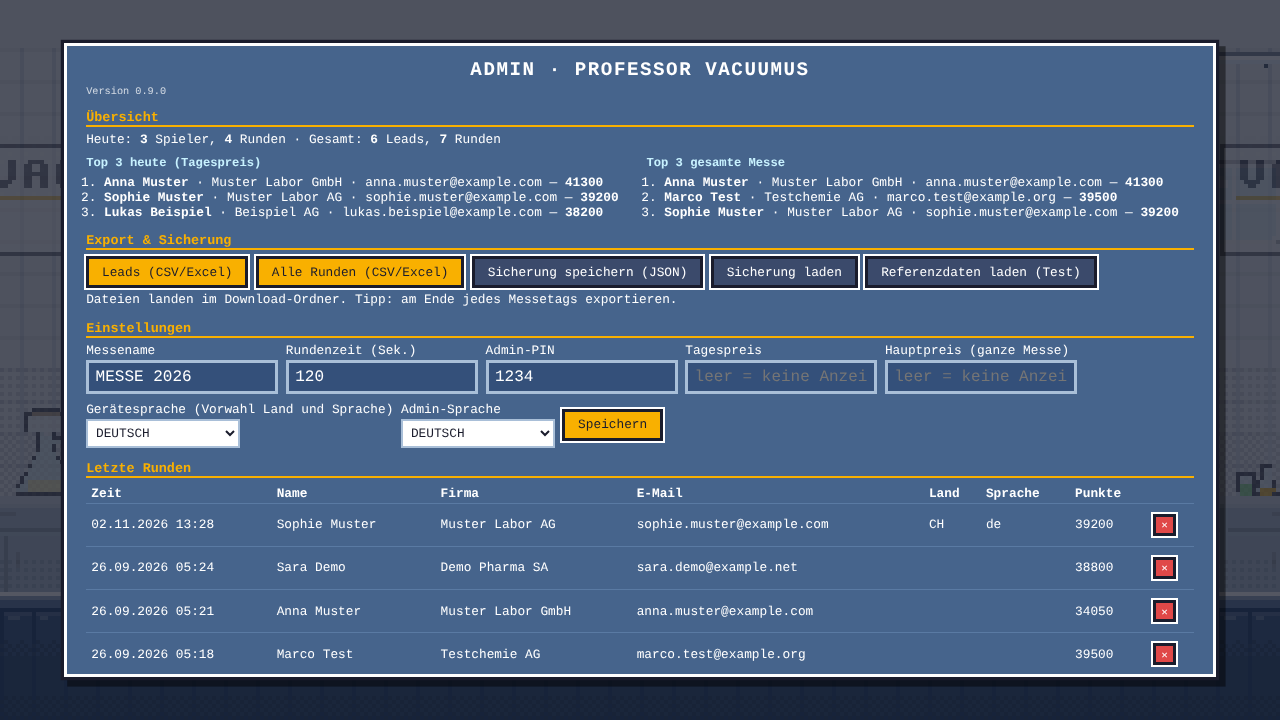
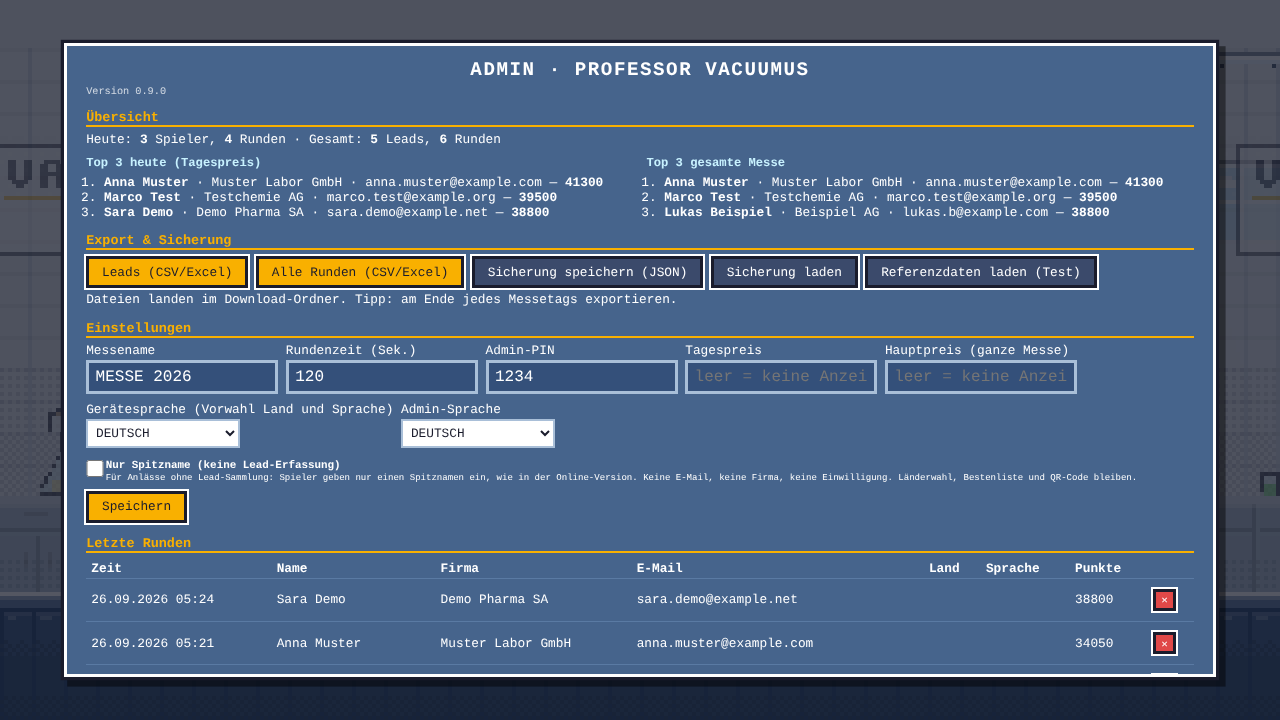
Admin-Schalter "Nur Spitzname": Messe ohne Lead-Erfassung
- CONFIG.nameOnly (Standard aus), Checkbox im Admin, wird gespeichert
- Anmeldung wie online (nur Spitzname), Überschrift WILLKOMMEN!/WELCOME!/BIENVENUE!
- Gelber Warnbalken im Admin, solange aktiv; Spitznamen separat gezählt
- Leads-Export ohne Spitznamen, Runden-Export mit Spalte Art (Lead/Spitzname)
- Texte DE/EN/FR in i18n.js und TEXTE.md (T191 bis T194)
- Doku DE/EN, Screenshots 15-admin neu, 18-admin-nur-spitzname neu
- sw.js VERSION v19

Claude-Session: https://claude.ai/code/session_01KFi8zYB7Vqd54yDzyfkvtV

diff --git a/js/ui.js b/js/ui.js
@@ -26,7 +26,7 @@ class RegisterScene {
   constructor(country) { this.country = country || ''; this.allowAdmin = false; this.t = 0; this.idle = 0; this.demo = new DemoStrip(); }
 
   enter() {
-    if (CONFIG.mode === 'online') { this.enterOnline(); return; }
+    if (nickRegistration()) { this.enterOnline(); return; }
     const cfg = CONFIG.registration;
     const fields = cfg.fields.map(f =>
       '<label class="field"><span>' + escapeHtml(L('reg.' + f.key)) + (f.required ? ' *' : '') + '</span>' +
@@ -59,14 +59,14 @@ class RegisterScene {
     if (!Input.touch) setTimeout(() => { const i = form.querySelector('input'); if (i) i.focus(); }, 30);
   }
 
-  // Online-Demo: nur ein Spitzname, keine Kontaktdaten
+  // Nur Spitzname, keine Kontaktdaten: Online-Demo, oder Messe mit Schalter "Nur Spitzname" (CONFIG.nameOnly)
   enterOnline() {
     let last = '';
     try { last = window.localStorage.getItem('vakuumprof_nick') || ''; } catch (e) { /* egal */ }
     Overlay.show(
       '<form class="panel reg online" novalidate lang="' + I18N.lang + '">' +
       '<div class="logo"><img src="assets/vacuubrand-logo.png" alt="VACUUBRAND"></div>' +
-      '<h1>' + escapeHtml(L('on.title')) + '</h1>' +
+      '<h1>' + escapeHtml(L(CONFIG.mode === 'online' ? 'on.title' : 'nick.title')) + '</h1>' +
       '<p class="hint">' + escapeHtml(L('on.hint')) + '</p>' +
       '<label class="field"><span>' + escapeHtml(L('on.nick')) + '</span><input name="nick" type="text" maxlength="12" autocomplete="off" spellcheck="false" placeholder="' + escapeHtml(L('on.guest')) + '" value="' + escapeHtml(last) + '"></label>' +
       '<div class="buttons"><button type="button" class="btn ghost" data-act="cancel">' + escapeHtml(L('on.back')) + '</button>' +
@@ -79,7 +79,10 @@ class RegisterScene {
       e.preventDefault();
       const nick = (form.elements.nick.value.trim() || L('on.guest')).slice(0, 12);
       try { window.localStorage.setItem('vakuumprof_nick', nick); } catch (err) { /* egal */ }
-      const lead = Store.upsertLead({ firstName: nick, lastName: '', company: '', email: 'online:' + nick.toLowerCase(), consent: false, newsletter: false, isOnline: true, country: this.country, lang: I18N.lang });
+      // Gleicher Spitzname = gleicher Spieler. Online wie bisher "online:…", an der Messe "nick:…" (nie eine echte E-Mail)
+      const online = CONFIG.mode === 'online';
+      const lead = Store.upsertLead(Object.assign({ firstName: nick, lastName: '', company: '', email: (online ? 'online:' : 'nick:') + nick.toLowerCase(),
+        consent: false, newsletter: false, country: this.country, lang: I18N.lang }, online ? { isOnline: true } : { nickOnly: true }));
       Sound.sfx('select');
       Game.go(new PlayScene(lead));
     });
@@ -184,6 +187,7 @@ class AdminScene {
 
   personRow(e) {
     const l = e.lead || {};
+    if (isNickLead(l)) return '<li><b>' + escapeHtml(l.firstName) + '</b> · <i>' + LA('adm.nickTag') + '</i> — <b>' + e.score + '</b></li>';
     return '<li><b>' + escapeHtml(l.firstName) + ' ' + escapeHtml(l.lastName) + '</b> · ' + escapeHtml(l.company) +
       ' · ' + escapeHtml(l.email) + ' — <b>' + e.score + '</b></li>';
   }
@@ -201,8 +205,10 @@ class AdminScene {
     const recent = Store.rounds().slice().sort((a, b) => b.ts - a.ts).slice(0, 40);
     const rows = recent.map(r => {
       const l = leads[r.leadId] || {};
+      const nick = isNickLead(l);   // Spitzname-Runde: keine Firma, keine E-Mail
       return '<tr><td>' + formatDateTime(r.ts) + '</td><td>' + escapeHtml(l.firstName) + ' ' + escapeHtml(l.lastName) +
-        '</td><td>' + escapeHtml(l.company) + '</td><td>' + escapeHtml(l.email) + '</td><td>' + escapeHtml(r.country || l.country || '') +
+        (nick ? ' <i>(' + LA('adm.nickTag') + ')</i>' : '') +
+        '</td><td>' + (nick ? '' : escapeHtml(l.company)) + '</td><td>' + (nick ? '' : escapeHtml(l.email)) + '</td><td>' + escapeHtml(r.country || l.country || '') +
         '</td><td>' + escapeHtml(r.lang || l.lang || '') + '</td><td>' + r.score +
         '</td><td><button class="btn small danger" data-del="' + escapeHtml(r.id) + '">✕</button></td></tr>';
     }).join('');
@@ -210,8 +216,10 @@ class AdminScene {
       '<div class="panel admin" lang="' + I18N.adminLang + '"><h1>' + LA('adm.title') + '</h1>' +
       '<p class="version">' + LA('adm.version', escapeHtml(CONFIG.version || '')) + '</p>' +
       (Store.available ? '' : '<div class="warn">' + LA('adm.noStorage') + '</div>') +
+      (CONFIG.nameOnly ? '<div class="warn nick">' + LA('adm.nameOnlyActive') + '</div>' : '') +
       (note ? '<p class="ok">' + escapeHtml(note) + '</p>' : '') +
-      '<h2>' + LA('adm.overview') + '</h2><p>' + LA('adm.stats', st.playersToday, st.roundsToday, st.leads, st.rounds) + '</p>' +
+      '<h2>' + LA('adm.overview') + '</h2><p>' + LA('adm.stats', st.playersToday, st.roundsToday, st.leads, st.rounds) +
+        (st.nicks ? LA('adm.statsNick', st.nicks) : '') + '</p>' +
       '<div class="cols"><div><h3>' + LA('adm.top3day') + '</h3><ol>' + (today.map(e => this.personRow(e)).join('') || '<li>–</li>') + '</ol></div>' +
       '<div><h3>' + LA('adm.top3all') + '</h3><ol>' + (all.map(e => this.personRow(e)).join('') || '<li>–</li>') + '</ol></div></div>' +
       '<h2>' + LA('adm.export') + '</h2><div class="row">' +
@@ -233,6 +241,8 @@ class AdminScene {
       '<label>' + LA('adm.prizeMain') + '<input type="text" name="prizeMain" maxlength="17" placeholder="' + LA('adm.prizeEmpty') + '" value="' + escapeHtml(CONFIG.prizeMain || '') + '"></label>' +
       '<label>' + LA('adm.defaultLang') + this.langSelect('defaultLang', CONFIG.defaultLang, I18N.langs) + '</label>' +
       '<label>' + LA('adm.adminLang') + this.langSelect('adminLang', I18N.adminLang, ['de', 'en']) + '</label>' +
+      '<label class="check nameOnly"><input type="checkbox" name="nameOnly"' + (CONFIG.nameOnly ? ' checked' : '') + '><span><b>' + LA('adm.nameOnly') + '</b><br>' +
+        '<small>' + LA('adm.nameOnlyHelp') + '</small></span></label>' +
       '<button class="btn" type="submit">' + LA('adm.save') + '</button></form>' +
       '<h2>' + LA('adm.recent') + '</h2><table><tr><th>' + LA('adm.colTime') + '</th><th>' + LA('adm.colName') + '</th><th>' + LA('adm.colCompany') +
       '</th><th>' + LA('adm.colEmail') + '</th><th>' + LA('adm.colCountry') + '</th><th>' + LA('adm.colLang') + '</th><th>' + LA('adm.colScore') + '</th><th></th></tr>' +
@@ -262,7 +272,8 @@ class AdminScene {
         prizeDay: f.elements.prizeDay.value.trim().toUpperCase(),
         prizeMain: f.elements.prizeMain.value.trim().toUpperCase(),
         defaultLang: f.elements.defaultLang.value,
-        adminLang: f.elements.adminLang.value
+        adminLang: f.elements.adminLang.value,
+        nameOnly: f.elements.nameOnly.checked
       };
       Object.assign(CONFIG, s);
       I18N.adminLang = s.adminLang;

diff --git a/js/i18n.js b/js/i18n.js
@@ -163,6 +163,8 @@ const I18N = {
     'on.nick': 'Spitzname', 'on.guest': 'GAST',
     'on.back': 'ZURÜCK', 'on.go': 'LOS GEHT\'S!',
     'on.privacy': 'Deine Punkte werden nur auf diesem Gerät gespeichert. Es werden keine Daten übertragen.',
+    // Messe mit Schalter "Nur Spitzname": Überschrift statt ONLINE-DEMO (Rest wie on.…)
+    'nick.title': 'WILLKOMMEN!',
 
     // ---------------- Admin-Bereich (nur de und en) ----------------
     'adm.title': 'ADMIN · PROFESSOR VACUUMUS',
@@ -182,6 +184,10 @@ const I18N = {
     'adm.prizeDay': 'Tagespreis', 'adm.prizeMain': 'Hauptpreis (ganze Messe)', 'adm.prizeEmpty': 'leer = keine Anzeige',
     'adm.defaultLang': 'Gerätesprache (Vorwahl Land und Sprache)', 'adm.adminLang': 'Admin-Sprache',
     'adm.save': 'Speichern',
+    'adm.nameOnly': 'Nur Spitzname (keine Lead-Erfassung)',
+    'adm.nameOnlyHelp': 'Für Anlässe ohne Lead-Sammlung: Spieler geben nur einen Spitznamen ein, wie in der Online-Version. Keine E-Mail, keine Firma, keine Einwilligung. Länderwahl, Bestenliste und QR-Code bleiben.',
+    'adm.nameOnlyActive': 'NUR SPITZNAME IST AKTIV: Es werden keine Leads erfasst. An einer Lead-Messe unten bei Einstellungen ausschalten!',
+    'adm.nickTag': 'Spitzname', 'adm.statsNick': ' · <b>{0}</b> Spitznamen (keine Leads)',
     'adm.recent': 'Letzte Runden',
     'adm.colTime': 'Zeit', 'adm.colName': 'Name', 'adm.colCompany': 'Firma', 'adm.colEmail': 'E-Mail', 'adm.colScore': 'Punkte',
     'adm.colCountry': 'Land', 'adm.colLang': 'Sprache',
@@ -205,6 +211,7 @@ const I18N = {
     'adm.step.jump': 'SPRINGEN', 'adm.step.suck': 'SAUGEN', 'adm.step.sprint': 'SPRINTEN', 'adm.step.start': 'START / PAUSE',
     'adm.badBackup': 'Keine gültige Sicherungsdatei.',
     // CSV-Export (Spaltennamen)
+    'csv.type': 'Art', 'csv.typeLead': 'Lead', 'csv.typeNick': 'Spitzname', 'csv.nick': 'Spitzname',
     'csv.dateTime': 'Datum/Zeit', 'csv.day': 'Tag', 'csv.event': 'Messe', 'csv.firstName': 'Vorname', 'csv.lastName': 'Name',
     'csv.company': 'Firma', 'csv.email': 'E-Mail', 'csv.consent': 'Einwilligung', 'csv.newsletter': 'Newsletter',
     'csv.country': 'Land', 'csv.lang': 'Sprache',
@@ -348,6 +355,7 @@ const I18N = {
     'on.nick': 'Nickname', 'on.guest': 'GUEST',
     'on.back': 'BACK', 'on.go': 'LET\'S GO!',
     'on.privacy': 'Your points are stored only on this device. No data is transmitted.',
+    'nick.title': 'WELCOME!',
 
     'adm.title': 'ADMIN · PROFESSOR VACUUMUS',
     'adm.pin': 'PIN', 'adm.open': 'OPEN', 'adm.back': 'ESC · BACK', 'adm.wrongPin': 'Wrong PIN.',
@@ -366,6 +374,10 @@ const I18N = {
     'adm.prizeDay': 'Daily prize', 'adm.prizeMain': 'Main prize (whole show)', 'adm.prizeEmpty': 'empty = not shown',
     'adm.defaultLang': 'Device language (preselects country and language)', 'adm.adminLang': 'Admin language',
     'adm.save': 'Save',
+    'adm.nameOnly': 'Nickname only (no lead capture)',
+    'adm.nameOnlyHelp': 'For events without lead collection: players only enter a nickname, like in the online version. No email, no company, no consent. Country selection, high score list and QR code stay.',
+    'adm.nameOnlyActive': 'NICKNAME ONLY IS ACTIVE: no leads are captured. At a lead-collecting trade show, switch it off below under Settings!',
+    'adm.nickTag': 'nickname', 'adm.statsNick': ' · <b>{0}</b> nicknames (no leads)',
     'adm.recent': 'Latest rounds',
     'adm.colTime': 'Time', 'adm.colName': 'Name', 'adm.colCompany': 'Company', 'adm.colEmail': 'Email', 'adm.colScore': 'Score',
     'adm.colCountry': 'Country', 'adm.colLang': 'Language',
@@ -388,6 +400,7 @@ const I18N = {
     'adm.padButton': 'button {0}',
     'adm.step.jump': 'JUMP', 'adm.step.suck': 'SUCK', 'adm.step.sprint': 'SPRINT', 'adm.step.start': 'START / PAUSE',
     'adm.badBackup': 'Not a valid backup file.',
+    'csv.type': 'Type', 'csv.typeLead': 'Lead', 'csv.typeNick': 'Nickname', 'csv.nick': 'Nickname',
     'csv.dateTime': 'Date/time', 'csv.day': 'Day', 'csv.event': 'Show', 'csv.firstName': 'First name', 'csv.lastName': 'Last name',
     'csv.company': 'Company', 'csv.email': 'Email', 'csv.consent': 'Consent', 'csv.newsletter': 'Newsletter',
     'csv.country': 'Country', 'csv.lang': 'Language',
@@ -530,7 +543,8 @@ const I18N = {
     'on.hint': 'Pas d\'inscription nécessaire. Quel nom afficher dans le classement?',
     'on.nick': 'Pseudo', 'on.guest': 'INVITÉ',
     'on.back': 'RETOUR', 'on.go': 'C\'EST PARTI!',
-    'on.privacy': 'Tes points sont enregistrés uniquement sur cet appareil. Aucune donnée n\'est transmise.'
+    'on.privacy': 'Tes points sont enregistrés uniquement sur cet appareil. Aucune donnée n\'est transmise.',
+    'nick.title': 'BIENVENUE!'
   }
 };
 

diff --git a/js/storage.js b/js/storage.js
@@ -34,6 +34,8 @@ const Store = {
 
   uid(prefix) { return prefix + Date.now().toString(36) + Math.random().toString(36).slice(2, 7); },
   leads() { return this.load(this.K_LEADS, []); },
+  // Echte Leads (mit Anmeldung), ohne Spitzname-Spieler (online oder Messe mit "Nur Spitzname")
+  realLeads() { return this.leads().filter(l => !isNickLead(l)); },
   rounds() { return this.load(this.K_ROUNDS, []); },
   leadMap() {
     const m = {};
@@ -92,7 +94,8 @@ const Store = {
     const rounds = this.rounds();
     const today = rounds.filter(r => r.day === day);
     return {
-      leads: this.leads().length,
+      leads: this.realLeads().length,
+      nicks: this.leads().length - this.realLeads().length,
       rounds: rounds.length,
       roundsToday: today.length,
       playersToday: new Set(today.map(r => r.leadId)).size
@@ -136,10 +139,15 @@ const Store = {
   },
   exportRoundsCSV() {
     const leads = this.leadMap();
-    const rows = this.rounds().slice().sort((a, b) => a.ts - b.ts).map(r => Object.assign({}, r, { lead: leads[r.leadId] || {} }));
+    // Spitzname-Runden: Spalte "Art" = Spitzname, Name in eigener Spalte, Lead-Spalten bleiben leer
+    const rows = this.rounds().slice().sort((a, b) => a.ts - b.ts).map(r => {
+      const l = leads[r.leadId] || {};
+      return Object.assign({}, r, { nick: isNickLead(l) ? l.firstName : '', lead: isNickLead(l) ? {} : l });
+    });
     const yn = v => LA(v ? 'csv.yes' : 'csv.no');
     const text = this.csv([
       [LA('csv.dateTime'), r => formatDateTime(r.ts)], [LA('csv.day'), r => r.day], [LA('csv.event'), r => r.eventName],
+      [LA('csv.type'), r => LA(r.nick ? 'csv.typeNick' : 'csv.typeLead')], [LA('csv.nick'), r => r.nick],
       [LA('csv.firstName'), r => r.lead.firstName], [LA('csv.lastName'), r => r.lead.lastName], [LA('csv.company'), r => r.lead.company],
       [LA('csv.email'), r => r.lead.email], [LA('csv.consent'), r => yn(r.lead.consent)], [LA('csv.newsletter'), r => yn(r.lead.newsletter)],
       [LA('csv.country'), r => r.country || r.lead.country || ''], [LA('csv.lang'), r => r.lang || r.lead.lang || ''],
@@ -153,7 +161,7 @@ const Store = {
   exportLeadsCSV() {
     const rounds = this.rounds();
     const yn = v => LA(v ? 'csv.yes' : 'csv.no');
-    const rows = this.leads().map(l => {
+    const rows = this.realLeads().map(l => {   // Spitzname-Spieler sind keine Leads
       const mine = rounds.filter(r => r.leadId === l.id);
       return Object.assign({}, l, {
         n: mine.length,

diff --git a/js/config.js b/js/config.js
@@ -109,6 +109,13 @@ const CONFIG = {
     { key: 'shoes' }
   ],
 
+  // Nur Spitzname statt Anmeldung (nur Messe-Version; online gibt es sowieso nur den Spitznamen).
+  // true = keine Lead-Erfassung: Spieler geben nur einen Spitznamen ein, wie in der Online-Version.
+  // Keine E-Mail, keine Firma, keine Einwilligung, kein Newsletter. Länderwahl, Admin, Bestenliste und
+  // Kontakt-QR bleiben. Gedacht für Anlässe, wo es nur um Spass geht. Am besten im Admin umschalten
+  // ("Nur Spitzname"), dort wird es gemerkt. An einer Lead-Messe unbedingt ausschalten!
+  nameOnly: false,
+
   // Anmeldung vor dem Spiel (Lead-Erfassung). Beschriftungen, Einwilligung und Datenschutz-Hinweis
   // stehen in js/i18n.js ("reg.…"), weil sie je nach Sprache anders lauten.
   registration: {

diff --git a/js/util.js b/js/util.js
@@ -33,6 +33,11 @@ function escapeHtml(s) {
   return String(s == null ? '' : s).replace(/[&<>"']/g, c =>
     ({ '&': '&amp;', '<': '&lt;', '>': '&gt;', '"': '&quot;', "'": '&#39;' }[c]));
 }
+// Spieler nur mit Spitzname (online, oder Messe mit "Nur Spitzname"): kein Lead
+function isNickLead(lead) { return !!(lead && (lead.isOnline || lead.nickOnly)); }
+// Anmeldung nur mit Spitzname? Online immer, an der Messe nur mit Schalter CONFIG.nameOnly
+function nickRegistration() { return CONFIG.mode === 'online' || !!CONFIG.nameOnly; }
+
 function displayName(lead) {
   if (!lead) return '???';
   const f = String(lead.firstName || '').trim().toUpperCase().slice(0, 9);

diff --git a/css/style.css b/css/style.css
@@ -148,6 +148,10 @@ input.bad { border-color: #ff6b6b; }
 .admin .row select { width: 12em; font: inherit; padding: 0.3em; background: #fff; color: #1a1c2c; border: 2px solid #a9bfd8; }
 .admin .warn { background: #e04848; padding: 0.4em; margin-bottom: 0.5em; }
 .admin .ok { color: #7be07b; }
+/* Schalter "Nur Spitzname" und Warnung oben, solange er an ist */
+.admin .row label.check { flex-direction: row; flex-basis: 100%; margin-top: 0.3em; }
+.admin .row label.check input { width: 1.3em; }
+.admin .warn.nick { background: #f9b000; color: #1a1c2c; font-weight: bold; }
 
 .logo {
   background: #fff;

diff --git a/sw.js b/sw.js
@@ -3,7 +3,7 @@
 // Bei jeder neuen Version VERSION erhöhen, damit Tablets die neuen Dateien holen.
 // Hinweis: Der Cache-Name behält absichtlich den alten Namen "vakuumus" (Professor heisst jetzt Vacuumus).
 // Nur die Nummer hochzählen, damit installierte Tablets sauber aktualisieren.
-const VERSION = 'vakuumus-v18';
+const VERSION = 'vakuumus-v19';
 const FILES = [
   './',
   'index.html',

diff --git a/CLAUDE.md b/CLAUDE.md
@@ -23,12 +23,12 @@ Diese Datei fasst den bisherigen Stand und alle Entscheidungen zusammen. Neue Si
 Siehe `TECHNIK.md` (Dateien, Mechanik, Datenformat, Mehrsprachigkeit, Länder, Kochrezepte; bleibt Deutsch), `ANLEITUNG.md` / `GUIDE.en.md` (Standpersonal, deutsch/englisch, beide aktuell halten), `README.md` / `README.en.md` (Pitch fürs Management), `TEXTE.md` (alle Texte mit EN/FR), `qr/` (QR-Prüfseite), `raspberry-pi/README.md` und `docs/wiki/` (Wiki-Seiten).
 
 ## Aktueller Spielstand (Kurzfassung)
-- **Ablauf:** Titel (immer Englisch, `titleLang`; Wunsch David) → Land & Sprache (4 Flaggen CH, DE, UK, FR + Sprachzeile DE/EN/FR) → Anmeldung in gewählter Sprache (messe: Vorname, Name, Firma, E-Mail, Einwilligung, Newsletter / online: Spitzname) → Anleitung → Runde (120 s) → Ergebnis mit Medaillen → Kontakt-Seite mit grossem QR-Code des gewählten Landes (bleibt bis Klick) → Bestenliste (heute / ganze Messe, öffentlich nur „Vorname N.“) → Titel, wieder Gerätesprache.
+- **Ablauf:** Titel (immer Englisch, `titleLang`; Wunsch David) → Land & Sprache (4 Flaggen CH, DE, UK, FR + Sprachzeile DE/EN/FR) → Anmeldung in gewählter Sprache (messe: Vorname, Name, Firma, E-Mail, Einwilligung, Newsletter / online oder messe mit Admin-Schalter „Nur Spitzname“: Spitzname) → Anleitung → Runde (120 s) → Ergebnis mit Medaillen → Kontakt-Seite mit grossem QR-Code des gewählten Landes (bleibt bis Klick) → Bestenliste (heute / ganze Messe, öffentlich nur „Vorname N.“) → Titel, wieder Gerätesprache.
 - **Sprachen und Länder (Wunsch UK-Team):** `CONFIG.countries` in `js/config.js` mit `contactUrl` pro Land (Ansprechpartner-Seite pro Land: CH `…/ansprechpartner-weltweit/ch`, DE `…/de`, UK englisch `…/contacts-worldwide/gb` (nicht `/uk`, das geht nicht), FR französisch `…/contacts-dans-le-monde-entier/fr`; ohne Land/Schnellstart allgemeiner `contactUrl` = `https://www.vacuubrand.com/service-advice/contact/contacts-worldwide`, alle Länder). Gerätesprache `defaultLang` (wählt Land/Sprache vor) und Admin-Sprache `adminLang` im Admin; online gilt die Browsersprache. Export mit Land und Sprache. Prüfseite für QR-Codes: `qr/index.html` (DE/EN, 5 Karten; Bilder `qr/QR_*.png` inkl. `QR_ALLE.png` und Doku-Screenshots `docs/screenshots/de/17-qr-pruefseite.png` / `docs/screenshots/en/17-qr-pruefseite.png` nach Link-Änderung neu erzeugen, siehe TECHNIK.md).
 - **5 Zonen, 330 Kacheln:** Filtrationslabor (ME 1C), Zellkultur-Labor (BVC professional mit VHC, saugt dort alles, ×2 Punkte), Verdampfer-Labor (PC 3001 VARIO select), Chemielabor (MD 4C VARIO select), Hochvakuum-Technikum (VACUU·PURE 10C, Endgegner Dampf-Krake, nur mit Pumpe Stufe 4). Abgründe sind Auffangwannen.
 - **Extras:** Schutzausrüstung (Brille, Handschuhe, Helm, Schuhe), VACUU·VIEW extended (+10 s), VACUU·LAN-Plattformen, Combo bis ×8 mit Timer-Kasten, 6 Medaillen, Zeitleiste, Musik pro Zone, Preis-Anzeige (Admin), Kontakt-QR (`contactUrl`). Produkt-Banner beim Einsammeln vorerst aus (`productBanners`), bis Marketing die Texte freigibt.
 - **Steuerung:** Tastatur, Gamepad, Joystick (inkl. Hat-Steuerkreuz), Touch (links ◀ ▶, rechts SPRUNG über SAUGEN, Naht drückt beide; kein Sprint/Ducken auf Touch), eigene Knopfbelegung im Admin („Controller einrichten“).
-- **Admin:** Strg+Shift+A (Tablet: 3 s aufs Logo), PIN 1234. Export CSV/JSON, Preise, Messename, Rundenzeit, Gerätesprache, Admin-Sprache (DE/EN), Controller. Schnellstart ohne Speicherung und ohne Länderwahl: Strg+Shift+Enter.
+- **Admin:** Strg+Shift+A (Tablet: 3 s aufs Logo), PIN 1234. Export CSV/JSON, Preise, Messename, Rundenzeit, Gerätesprache, Admin-Sprache (DE/EN), Schalter **Nur Spitzname** (`CONFIG.nameOnly`, Anlass ohne Leads: Anmeldung wie online, gelber Warnbalken im Admin, Spitznamen `nickOnly` nicht im Leads-Export, im Runden-Export Spalte „Art“), Controller. Schnellstart ohne Speicherung und ohne Länderwahl: Strg+Shift+Enter.
 - **Online:** https://gsb-deleven.github.io/vacuubrand-game/ (Pages: „Deploy from a branch“, `main`, Root; `.nojekyll`). Mit `?messe` volle Stand-Version (z. B. Tablet). PWA mit Offline-Cache.
 
 ## Arbeitsweise

diff --git a/TEXTE.md b/TEXTE.md
@@ -97,6 +97,7 @@ Die Übersetzungen dazu stehen in der grossen Tabelle unten.
 | T187 | Online-Demo, Spitzname-Seite | ONLINE-DEMO / Keine Anmeldung nötig. … / Spitzname / GAST |
 | T188 | Name in der Bestenliste, falls leer | SPIELER |
 | T189 | Startbildschirm, Untertitel | SAUG DAS LABOR-CHAOS WEG! |
+| T191 | 🆕 Messe mit Admin-Schalter „Nur Spitzname“: Überschrift der Spitzname-Seite (statt ONLINE-DEMO; Rest wie T187) | WILLKOMMEN! |
 
 ---
 
@@ -223,6 +224,9 @@ Falls dir hier trotzdem etwas nicht gefällt, einfach die Nummer nennen.
 |---|---|
 | T150 | ADMIN · PROFESSOR VACUUMUS, Übersicht, Top 3 heute (Tagespreis), Top 3 gesamte Messe, Export & Sicherung, Einstellungen, Letzte Runden, Gefahrenzone, Knöpfe und Bestätigungen. Sachlich und für das Personal verständlich |
 | T190 | 🆕 Admin, klein unter der Überschrift: Version … (Nummer aus `CONFIG.version`, z. B. 0.9.0), damit man am Stand sieht, welche Version läuft |
+| T192 | 🆕 Admin, Schalter „Nur Spitzname“: Nur Spitzname (keine Lead-Erfassung) / Für Anlässe ohne Lead-Sammlung: Spieler geben nur einen Spitznamen ein, wie in der Online-Version. Keine E-Mail, keine Firma, keine Einwilligung. Länderwahl, Bestenliste und QR-Code bleiben. |
+| T193 | 🆕 Admin, gelber Balken oben, solange der Schalter an ist: NUR SPITZNAME IST AKTIV: Es werden keine Leads erfasst. An einer Lead-Messe unten bei Einstellungen ausschalten! |
+| T194 | 🆕 Admin, Übersicht und Tabellen: · … Spitznamen (keine Leads) / Spitzname; Runden-Export Spalten: Art (Lead / Spitzname), Spitzname |
 
 ---
 
@@ -320,3 +324,7 @@ Den Admin-Bereich (T150) gibt es auf Deutsch und Englisch (Einstellung „Admin-
 | T172 | Kontakt-Seite, unten | ENTER = WEITER<br>TIPPEN = WEITER | ENTER = NEXT<br>TAP = NEXT | ENTRÉE = SUITE<br>TOUCHER = SUITE |
 | T188 | 🆕 Name, falls leer | SPIELER | PLAYER | JOUEUR |
 | T190 | 🆕 Admin, klein unter der Überschrift (Admin nur DE/EN) | Version … | Version … | (Admin nicht auf Französisch; wäre ebenfalls „Version …“) |
+| T191 | 🆕 Spitzname-Seite an der Messe mit Schalter „Nur Spitzname“, Überschrift | WILLKOMMEN! | WELCOME! | BIENVENUE! |
+| T192 | 🆕 Admin, Schalter (Admin nur DE/EN) | Nur Spitzname (keine Lead-Erfassung)<br>Für Anlässe ohne Lead-Sammlung: Spieler geben nur einen Spitznamen ein, wie in der Online-Version. Keine E-Mail, keine Firma, keine Einwilligung. Länderwahl, Bestenliste und QR-Code bleiben. | Nickname only (no lead capture)<br>For events without lead collection: players only enter a nickname, like in the online version. No email, no company, no consent. Country selection, high score list and QR code stay. | (Admin nicht auf Französisch) |
+| T193 | 🆕 Admin, gelber Warnbalken (Admin nur DE/EN) | NUR SPITZNAME IST AKTIV: Es werden keine Leads erfasst. An einer Lead-Messe unten bei Einstellungen ausschalten! | NICKNAME ONLY IS ACTIVE: no leads are captured. At a lead-collecting trade show, switch it off below under Settings! | (Admin nicht auf Französisch) |
+| T194 | 🆕 Admin, Übersicht, Tabellen und Runden-Export (Admin nur DE/EN) | · … Spitznamen (keine Leads)<br>Spitzname<br>Art: Lead / Spitzname | · … nicknames (no leads)<br>nickname<br>Type: Lead / Nickname | (Admin nicht auf Französisch) |

diff --git a/ANLEITUNG.md b/ANLEITUNG.md
@@ -300,11 +300,25 @@ Auf dem Titelbild **Strg + Shift + A** drücken (Tablet: 3 Sekunden aufs Logo), 
 | **Einstellungen** | Messename, Rundenzeit, PIN, Tagespreis und Hauptpreis (Preise erscheinen auf Startbildschirm und Bestenliste) |
 | **Gerätesprache** | bestimmt, welches Land und welche Sprache in der Länderwahl vorgewählt sind (Deutsch → Schweiz, Englisch → UK, Französisch → Frankreich). Auf einer Messe in Frankreich z. B. auf Französisch stellen. Das Titelbild bleibt immer Englisch (`titleLang` in `js/config.js`) |
 | **Admin-Sprache** | Deutsch oder Englisch, z. B. für das Team in UK |
+| **Nur Spitzname (keine Lead-Erfassung)** | Kästchen bei den Einstellungen, dann **Speichern**. Für Anlässe, wo es nur um Spass geht: Die Leute geben nur einen Spitznamen ein, wie in der Online-Version. Keine E-Mail, keine Firma, keine Einwilligung, kein Newsletter. Länderwahl, Bestenliste und QR-Code am Ende bleiben. Siehe unten |
 | **Controller / Joystick** | **Controller einrichten**, falls Knöpfe falsch liegen |
 | **Letzte Runden** | einzelne Runden löschen (✕ zweimal klicken) |
 | **Gefahrenzone** | **Alle Daten löschen** nach der Messe (LÖSCHEN ins Feld tippen) |
 
 - Im Export stehen pro Runde und pro Lead zusätzlich **Land** (CH, DE, UK, FR) und **Sprache** (de, en, fr).
+### Nur Spitzname (Anlass ohne Leads)
+
+Solange der Schalter an ist, steht oben im Admin ein gelber Balken **NUR SPITZNAME IST AKTIV**. Die Einstellung bleibt auch nach einem Neustart gespeichert.
+
+![Admin mit eingeschaltetem Schalter „Nur Spitzname“ (Beispieldaten)](docs/screenshots/de/18-admin-nur-spitzname.png)
+
+- In der Bestenliste steht der Spitzname.
+- Der Export **Leads** enthält nur echte Anmeldungen, keine Spitznamen. Im Export **Alle Runden** zeigt die Spalte **Art**, ob es ein **Lead** oder ein **Spitzname** war; bei Spitznamen bleiben Name, Firma und E-Mail leer.
+- In der Übersicht werden Spitznamen separat gezählt („Spitznamen (keine Leads)“).
+
+> [!WARNING]
+> An einer Messe, an der Leads gesammelt werden, den Schalter **unbedingt ausschalten**. Sonst meldet sich niemand an.
+
 - **Referenzdaten laden (Test):** lädt Beispieldaten mit erfundenen Personen (Ordner `daten/`: JSON und CSV-Beispiele), um Bestenliste und Export auszuprobieren. Vor der Messe mit „Alle Daten löschen“ wieder entfernen.
 - Nach jedem Export erscheint der Inhalt zusätzlich in einem Textfeld mit „Inhalt kopieren“. Praktisch, falls der Browser keinen Download erlaubt (z. B. in der Online-Vorschau).
 

diff --git a/GUIDE.en.md b/GUIDE.en.md
@@ -300,11 +300,25 @@ On the title screen press **Ctrl + Shift + A** (tablet: 3 seconds on the logo), 
 | **Settings** | Show name, round time, PIN, daily prize and main prize (prizes appear on the title screen and the high scores) |
 | **Device language** | decides which country and language are preselected in the country selection (German → Switzerland, English → UK, French → France). At a show in the UK, for example, set it to English. The title screen always stays in English (`titleLang` in `js/config.js`) |
 | **Admin language** | German or English, e.g. for the team in the UK |
+| **Nickname only (no lead capture)** | Tick box in the settings, then **Save**. For events that are just for fun: people only enter a nickname, like in the online version. No email, no company, no consent, no newsletter. Country selection, high scores and the QR code at the end stay. See below |
 | **Controller / joystick** | **Set up controller** if buttons are in the wrong place |
 | **Latest rounds** | delete single rounds (click ✕ twice) |
 | **Danger zone** | **Delete all data** after the show (type DELETE into the field) |
 
 - The export additionally contains **country** (CH, DE, UK, FR) and **language** (de, en, fr) for each round and each lead.
+### Nickname only (event without leads)
+
+As long as the switch is on, a yellow bar **NICKNAME ONLY IS ACTIVE** is shown at the top of the admin area. The setting is kept after a restart.
+
+![Admin with the "Nickname only" switch turned on (sample data)](docs/screenshots/en/18-admin-nur-spitzname.png)
+
+- The high score list shows the nickname.
+- The **Leads** export only contains real registrations, no nicknames. In the **All rounds** export the column **Type** shows whether it was a **Lead** or a **Nickname**; for nicknames, name, company and email stay empty.
+- The overview counts nicknames separately ("nicknames (no leads)").
+
+> [!WARNING]
+> At a show where leads are collected, **always switch it off**. Otherwise nobody registers.
+
 - **Load reference data (test):** loads sample data with invented people (folder `daten/`: JSON and CSV examples) to try out the high scores and export. Remove it with "Delete all data" before the show.
 - After every export the content also appears in a text field with "Copy content". Handy if the browser does not allow downloads (e.g. in the online preview).
 
